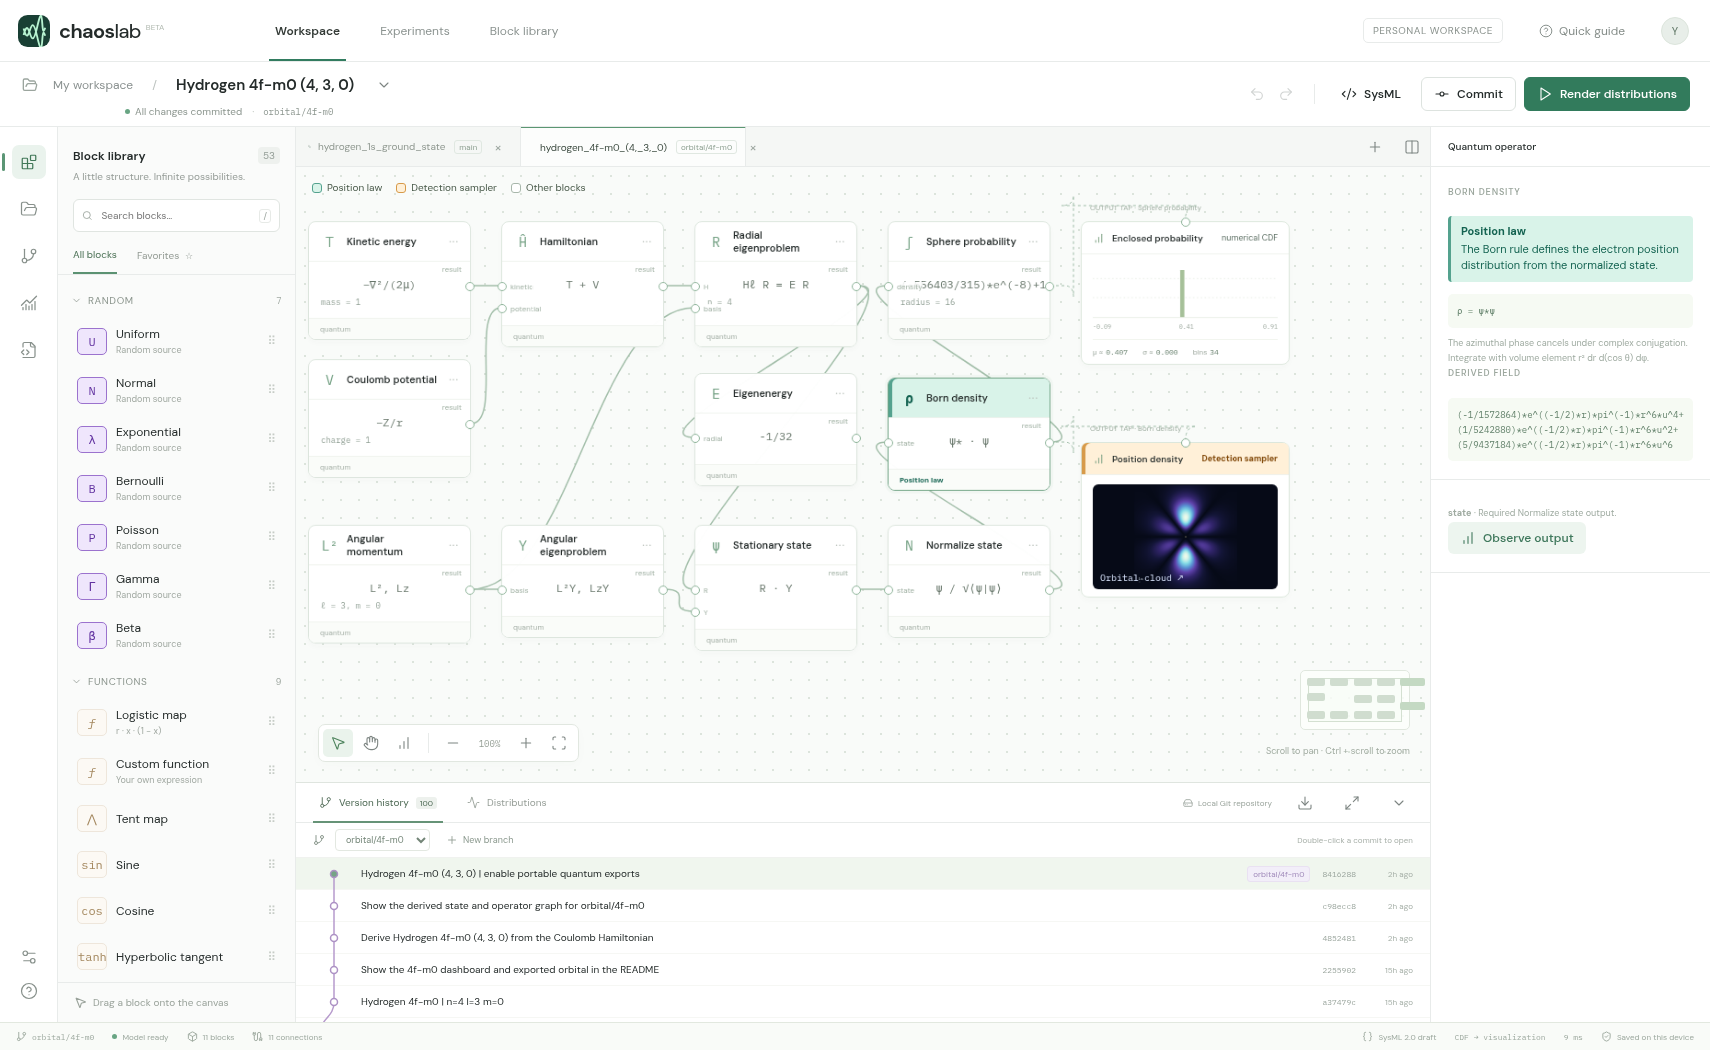
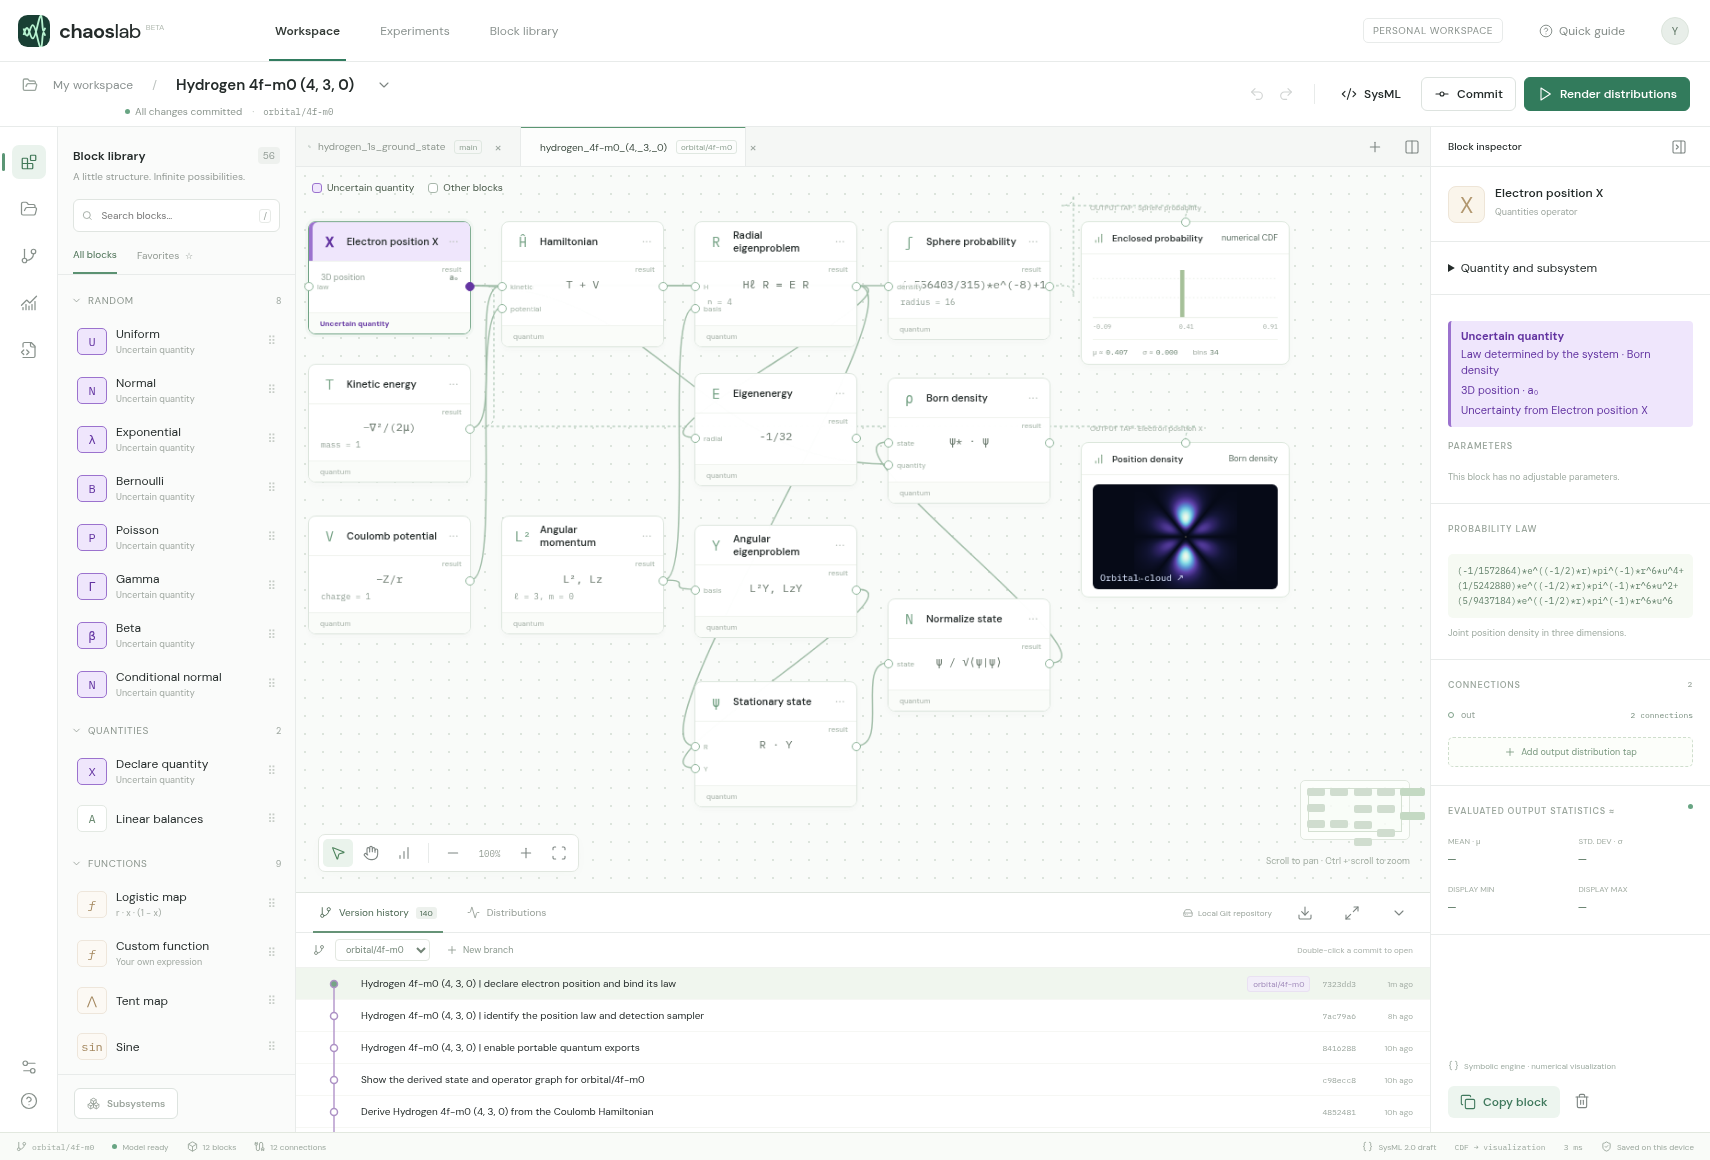
Show the position declaration and its law provider for orbital/4f-m0

diff --git a/studio.py b/studio.py
@@ -10,7 +10,7 @@ import tempfile
 import webbrowser
 
 ROOT = Path(__file__).resolve().parent
-STUDIO_REV = "5cbb600c6ee5baa24d159ddc6c974d68eb68f653"
+STUDIO_REV = "515ba96842af71b90f41019a508548a96e802665"
 STUDIO_REPO = "https://github.com/wa200508/chaos_lab.git"
 
 

diff --git a/README.md b/README.md
@@ -6,7 +6,7 @@ Open **Version history** in Chaos Lab to explore the 20 hydrogen designs in this
 
 The connected Hamiltonian and eigenstate solvers give $E=-1/32$ Hartree for this state.
 
-The purple **Electron position X** block declares the three-dimensional quantity in Bohr radii. Open its inspector to see **Born density** as its law provider. The sphere measurement and spatial tap both observe X. Projected detections draw from the final law; the central slice evaluates the density directly.
+The purple **Electron position X** block declares the three-dimensional quantity in Bohr radii. Open its inspector to see **Born density** as its law provider. The sphere measurement and spatial tap both observe X. Projected detections draw from the final law. The central slice evaluates the density directly.
 
 ![Chaos Lab dashboard with the 4f model, m = 0, open in version history](dashboard.png)
 
